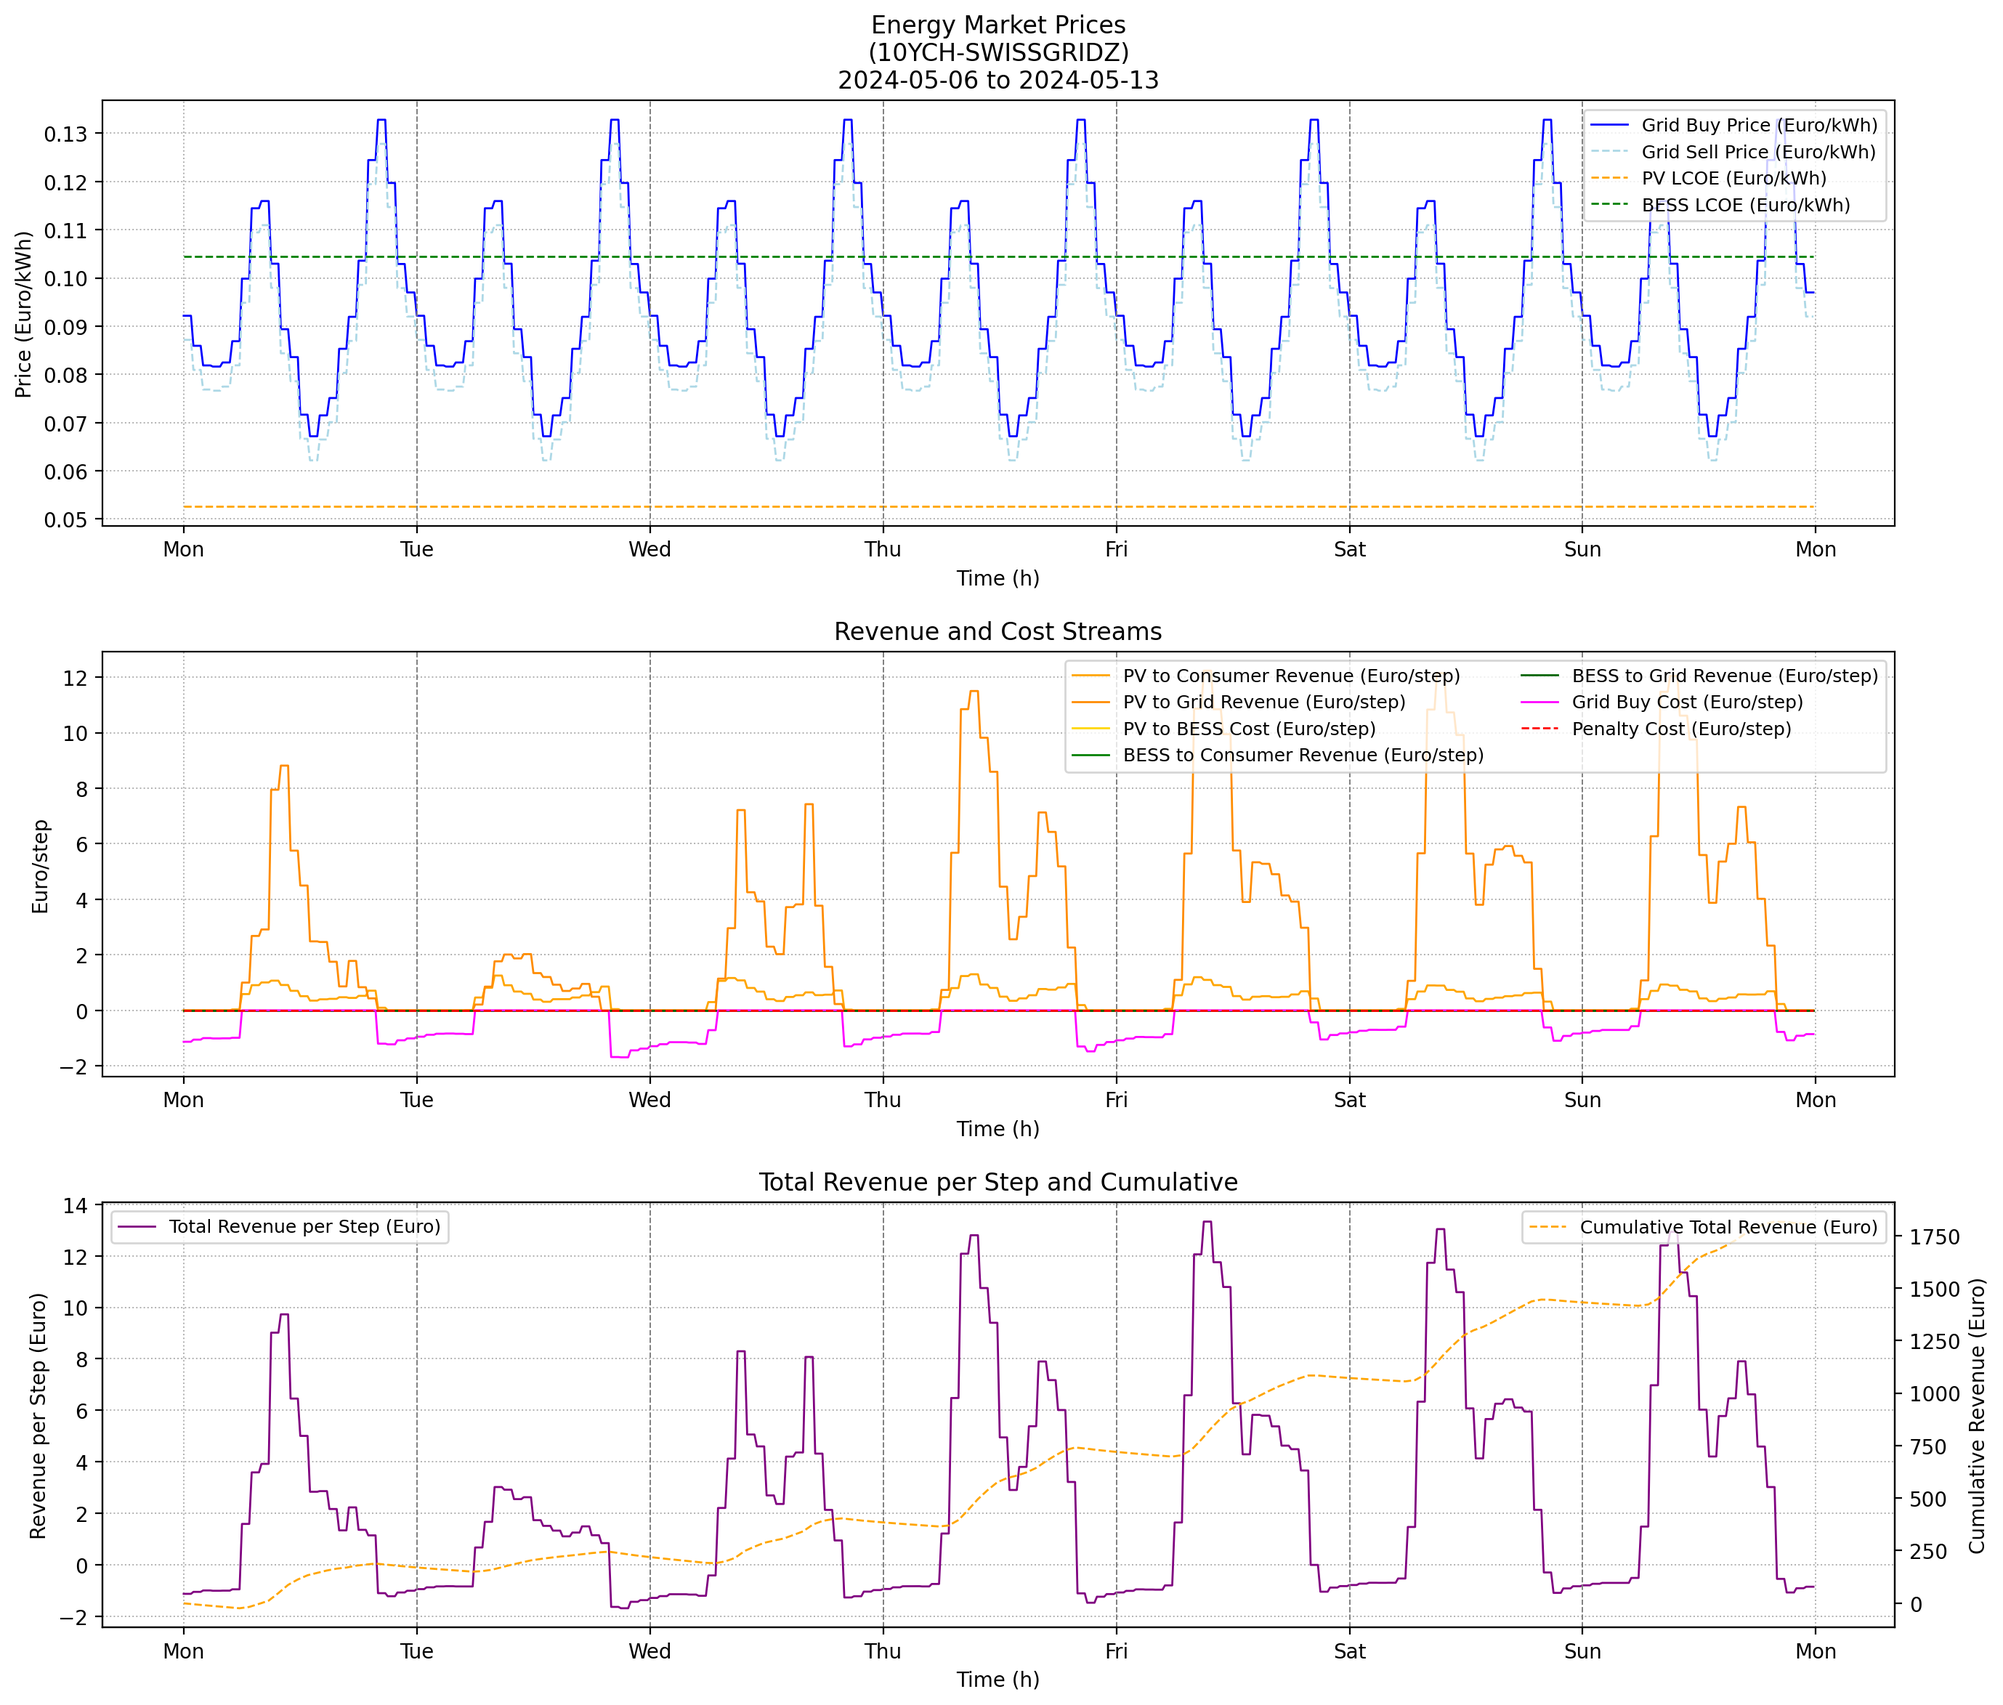
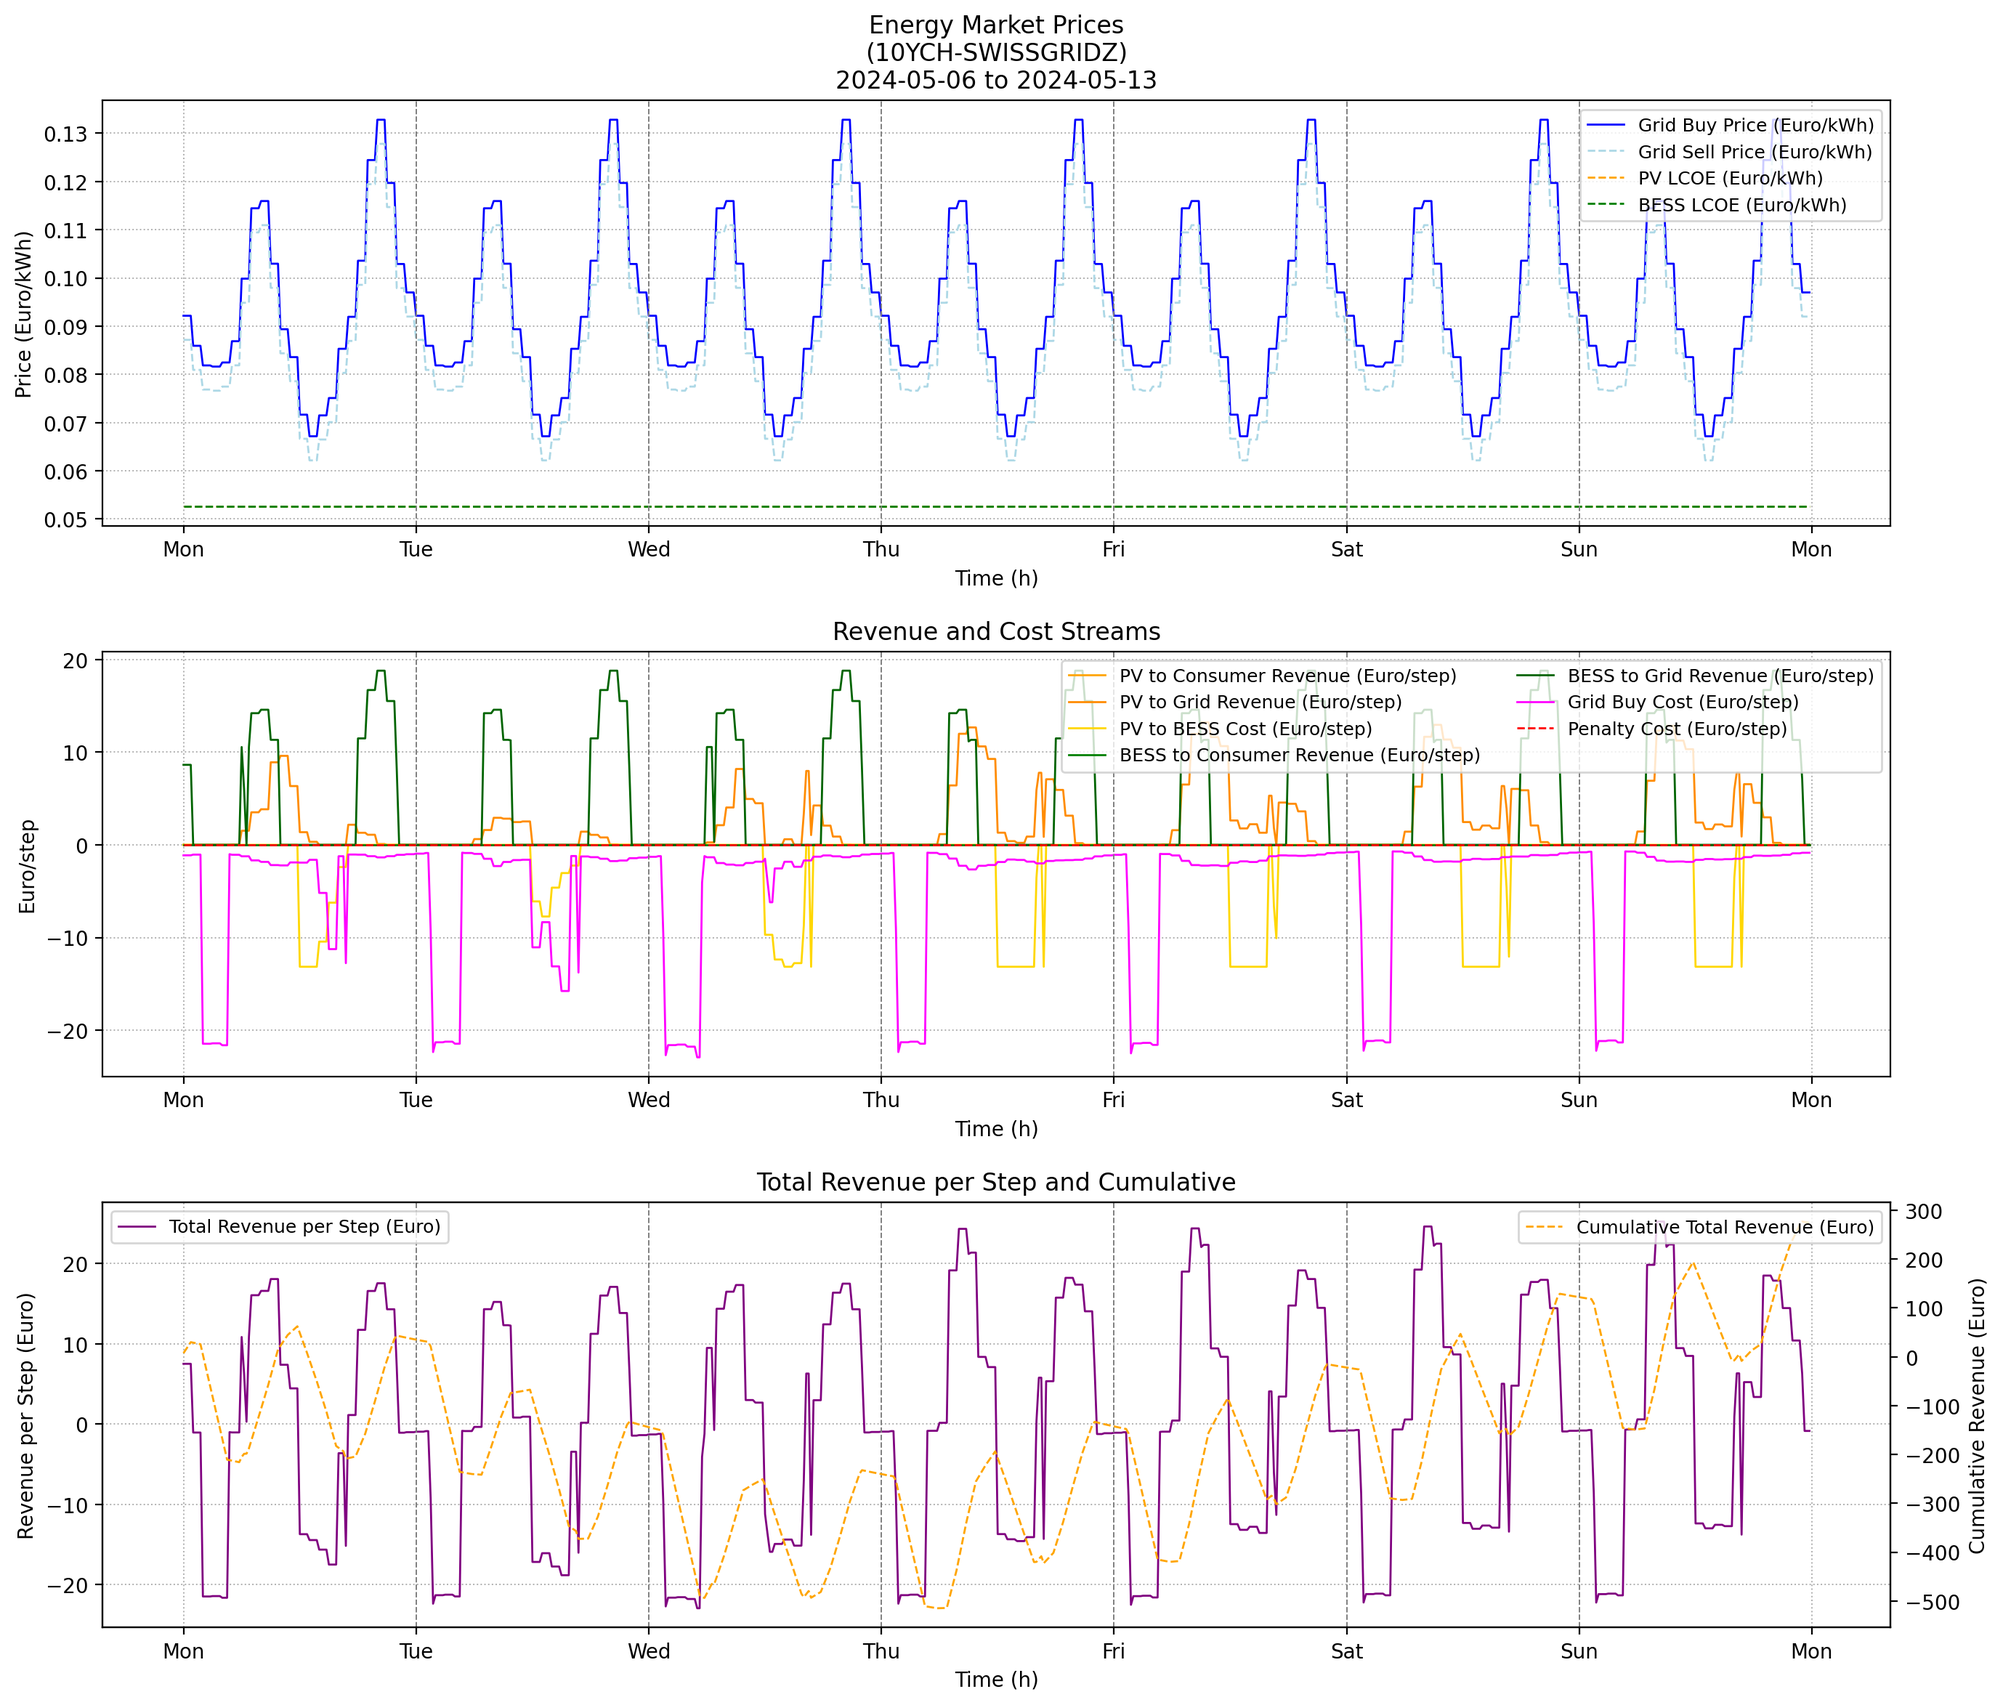
Update Model still to work on it

diff --git a/Computing Files/mpc.py b/Computing Files/mpc.py
@@ -33,6 +33,7 @@ class MPC:
         # Auxiliary variables for all flows (all non-negative)
         pv_to_consumer = cp.Variable(horizon, nonneg=True)
         bess_to_consumer = cp.Variable(horizon, nonneg=True)
+        bess_to_grid = cp.Variable(horizon, nonneg=True)
         pv_to_bess = cp.Variable(horizon, nonneg=True)
         pv_to_grid = cp.Variable(horizon, nonneg=True)
         grid_to_consumer = cp.Variable(horizon, nonneg=True)
@@ -41,8 +42,10 @@ class MPC:
         pv_after_bess = cp.Variable(horizon, nonneg=True)
         charge = cp.Variable(horizon, nonneg=True)
         discharge = cp.Variable(horizon, nonneg=True)
+        is_charging = cp.Variable(horizon, boolean=True)
         constraints = []
         constraints += [SOC[0] == soc_current]
+        M = self.bess_power_limit
         for k in range(horizon):
             pv = pv_forecast[k]
             demand = demand_forecast[k]
@@ -54,6 +57,9 @@ class MPC:
             constraints += [charge[k] >= 0]
             constraints += [discharge[k] >= P_BESS[k]]
             constraints += [discharge[k] >= 0]
+            # Big-M mutual exclusivity
+            constraints += [charge[k] <= M * is_charging[k]]
+            constraints += [discharge[k] <= M * (1 - is_charging[k])]
             # SOC update
             constraints += [SOC[k+1] == SOC[k] + self.eta_charge * charge[k] * self.delta_t - (discharge[k] / self.eta_discharge) * self.delta_t]
             constraints += [SOC[k+1] <= self.bess_capacity]
@@ -72,43 +78,72 @@ class MPC:
             constraints += [pv_after_bess[k] >= 0]
             # PV to grid: remaining PV after consumer and BESS
             constraints += [pv_to_grid[k] == pv_after_bess[k]]
-            # BESS to consumer: up to discharge and remaining demand
+            # BESS to consumer: up to discharge
             constraints += [bess_to_consumer[k] <= discharge[k]]
-            constraints += [bess_to_consumer[k] <= demand - pv_to_consumer[k]]
-            # Prevent simultaneous charge and discharge (convex relaxation)
-            constraints += [charge[k] + discharge[k] <= self.bess_power_limit]
-            # Grid to consumer: remaining demand
-            constraints += [grid_to_consumer[k] == demand - pv_to_consumer[k] - bess_to_consumer[k] + slack[k]]
-            # Grid to BESS: up to charge not covered by PV
+            # BESS to grid: up to discharge
+            constraints += [bess_to_grid[k] <= discharge[k]]
+            # Discharge split
+            constraints += [bess_to_consumer[k] + bess_to_grid[k] == discharge[k]]
+            # Energy balance constraints
+            # PV balance
+            constraints += [pv_to_consumer[k] + pv_to_bess[k] + pv_to_grid[k] == pv]
+            
+            # Consumer balance
+            constraints += [pv_to_consumer[k] + bess_to_consumer[k] + grid_to_consumer[k] == demand]
+            
+            # BESS balance
+            constraints += [charge[k] == pv_to_bess[k] + grid_to_bess[k]]
+            constraints += [discharge[k] == bess_to_consumer[k] + bess_to_grid[k]]
+            
+            # Grid balance (grid acts as slack)
+            constraints += [grid_to_consumer[k] == demand - pv_to_consumer[k] - bess_to_consumer[k]]
             constraints += [grid_to_bess[k] == charge[k] - pv_to_bess[k]]
             constraints += [grid_to_bess[k] >= 0]
-        # Objective: revenue + battery usage reward
-        alpha = 0.01  # Usage reward coefficient
-        # Set grid_to_consumer cost to -1 (i.e., grid is slack, not penalized heavily)
-        revenue = cp.sum(
-            pv_to_consumer * (buy_forecast[:horizon] - lcoe_pv) * self.delta_t +
-            pv_to_grid * (sell_forecast[:horizon] - lcoe_pv) * self.delta_t +
-            pv_to_bess * (-lcoe_pv) * self.delta_t +
-            bess_to_consumer * (buy_forecast[:horizon] - self.lcoe_bess) * self.delta_t +
-            grid_to_consumer * (-1) * self.delta_t +  # grid is slack, cost = 1
-            grid_to_bess * (-self.lcoe_bess) * self.delta_t
-        )
+            # Remove slack since we don't need it
+            constraints += [slack[k] == 0]
+        # Grid balance at each timestep
+        grid_import = []
+        grid_export = []
+        for k in range(horizon):
+            grid_imp_k = grid_to_consumer[k] + grid_to_bess[k]
+            grid_exp_k = pv_to_grid[k] + bess_to_grid[k]
+            grid_import.append(grid_imp_k)
+            grid_export.append(grid_exp_k)
+        
+        # Objective: true financial flows only (no virtual rewards)
+        alpha = 0.0001  # Usage reward coefficient (reduced to avoid excessive cycling)
+        
+        savings = 0
+        for k in range(horizon):
+            # Grid exports (revenue)
+            savings += cp.multiply(grid_export[k], sell_forecast[k]) * self.delta_t
+            # Grid imports (cost)
+            savings -= cp.multiply(grid_import[k], buy_forecast[k]) * self.delta_t
+            # Internal costs (LCOE)
+            savings -= cp.multiply(pv_to_consumer[k], lcoe_pv) * self.delta_t
+            savings -= cp.multiply(bess_to_consumer[k], self.lcoe_bess) * self.delta_t
+        
         bess_usage = cp.sum(charge + discharge) * self.delta_t
-        objective = cp.Maximize(revenue + alpha * bess_usage)
+        objective = cp.Maximize(savings + alpha * bess_usage)
         problem = cp.Problem(objective, constraints)
-        problem.solve(solver=cp.GUROBI, verbose=True, MIPGap=0.005)
+        problem.solve(solver=cp.GUROBI, verbose=True, MIPGap=0.05, TimeLimit=30)
         if problem.status == 'optimal':
-            return {
-                'P_BESS': P_BESS.value[0],
-                'SOC_next': SOC.value[1],
-                'pv_to_consumer': pv_to_consumer.value[0],
-                'bess_to_consumer': bess_to_consumer.value[0],
-                'pv_to_bess': pv_to_bess.value[0],
-                'pv_to_grid': pv_to_grid.value[0],
-                'grid_to_consumer': grid_to_consumer.value[0],
-                'grid_to_bess': grid_to_bess.value[0],
-                'slack': slack.value[0]
-            }
+            try:
+                return {
+                    'P_BESS': P_BESS.value[0],
+                    'SOC_next': SOC.value[1],
+                    'pv_to_consumer': pv_to_consumer.value[0],
+                    'bess_to_consumer': bess_to_consumer.value[0],
+                    'bess_to_grid': bess_to_grid.value[0],
+                    'pv_to_bess': pv_to_bess.value[0],
+                    'pv_to_grid': pv_to_grid.value[0],
+                    'grid_to_consumer': grid_to_consumer.value[0],
+                    'grid_to_bess': grid_to_bess.value[0],
+                    'slack': 0.0  # Since we constrain slack to be 0
+                }
+            except AttributeError as e:
+                logging.error(f"Error accessing solution values: {e}")
+                return None
         else:
             logging.info("MPC infeasible at current step.")
             return None

diff --git a/Computing Files/ev_power_profile.py b/Computing Files/ev_power_profile.py
@@ -1,0 +1,115 @@
+import numpy as np
+from datetime import datetime, timedelta
+import random
+import pandas as pd
+import os
+
+def load_constants():
+    # Cross-platform, dynamic path to constants file
+    BASE_DIR = os.path.dirname(os.path.dirname(os.path.abspath(__file__)))
+    CONSTANTS_PATH = os.path.join(BASE_DIR, 'Input Data Files', 'Constants_Plant.csv')
+    constants_df = pd.read_csv(CONSTANTS_PATH, comment='#')
+    return constants_df
+
+def generate_ev_charging_profile(start_time, end_time, num_sessions_per_day=0, session_energy=50, charger_max_power=400, load_scale=1.0):
+    """
+    Generates EV charging demand profile over the period.
+    
+    Parameters:
+    - start_time: datetime - Start of the period
+    - end_time: datetime - End of the period (exclusive last interval)
+    - num_sessions_per_day: int - Average number of charging sessions per day (0 for no charging)
+    - session_energy: float - Average energy per session in kWh (e.g., 50kWh)
+    - charger_max_power: float - Max power of the station in kW (400kW total for 2 outlets)
+    - load_scale: float - Scaling factor for energy load (1.0 = baseline, 0.0 = no load, >1 for increased)
+    
+    Returns:
+    dict with 'ev_demand': array of kWh per 15-min interval
+    """
+    if load_scale <= 0 or num_sessions_per_day <= 0:
+        # No charging scenario: return zeros for all intervals
+        num_intervals = int((end_time - start_time).total_seconds() / (15 * 60))
+        return {'ev_demand': np.zeros(num_intervals)}
+    
+    # Scale the number of sessions and energy (but cap power per session)
+    effective_sessions_per_day = int(num_sessions_per_day * load_scale)
+    effective_session_energy = session_energy * load_scale
+    
+    # Time setup: 15-min intervals
+    delta_t_min = 15
+    current_time = start_time
+    ev_demand = []
+    
+    # Period probabilities and avg loads (as % of max power, scaled indirectly via sessions/energy)
+    periods = [
+        (0, 6, 0.10, (20, 40)),   # 00-06h: low load
+        (6, 12, 0.40, (120, 200)), # 06-12h: higher
+        (12, 18, 0.30, (80, 160)), # 12-18h: medium
+        (18, 24, 0.25, (80, 120))  # 18-24h: medium-low
+    ]
+    
+    # Total probability for distributing sessions
+    total_prob = sum(p[2] for p in periods)
+    
+    # Simulate day by day
+    days = (end_time - start_time).days
+    for day in range(days):
+        daily_demand = np.zeros(96)  # 24h * 4 intervals/h
+        
+        # Distribute sessions across periods
+        sessions_per_period = [int(effective_sessions_per_day * p[2] / total_prob) for p in periods]
+        
+        for i, (start_h, end_h, _, (min_avg_kw, max_avg_kw)) in enumerate(periods):
+            num_sessions = sessions_per_period[i]
+            if num_sessions == 0:
+                continue
+            
+            # Period duration in minutes
+            period_min = (end_h - start_h) * 60
+            interval_start = start_h * 4
+            interval_end = end_h * 4
+            
+            for _ in range(num_sessions):
+                # Random session start within period (in minutes)
+                session_start_min = random.randint(0, period_min - 30)  # Assume min 30min session
+                session_duration_min = random.randint(30, 60)  # 30-60 min
+                # Power limited by charger max per outlet (assume 2 outlets, so per session max 200kW)
+                session_power = min(charger_max_power / 2, effective_session_energy / (session_duration_min / 60))  # Fit energy, cap at 200kW
+                
+                # Add to 15-min intervals (kWh = power * time_fraction)
+                start_interval = interval_start + (session_start_min // delta_t_min)
+                num_intervals = (session_duration_min + delta_t_min - 1) // delta_t_min  # Ceiling
+                
+                for j in range(num_intervals):
+                    interval_idx = start_interval + j
+                    if interval_idx >= interval_end:
+                        break
+                    # Fraction of interval covered by session
+                    interval_start_time_min = session_start_min + j * delta_t_min
+                    interval_end_time_min = min(session_start_min + session_duration_min, interval_start_time_min + delta_t_min)
+                    fraction = (interval_end_time_min - max(session_start_min, interval_start_time_min)) / delta_t_min
+                    daily_demand[interval_idx] += session_power * fraction * (delta_t_min / 60)  # kWh in interval
+        
+        ev_demand.extend(daily_demand)
+    
+    # Ensure exact length (672 for 7 days)
+    ev_demand = np.array(ev_demand[:672])
+    
+    return {'ev_demand': ev_demand}
+
+# For testing/standalone run (similar to pv_consumer_data)
+if __name__ == "__main__":
+    constants_df = load_constants()
+    period_start_str = constants_df[constants_df['Parameter'] == 'PERIOD_START']['Value'].iloc[0]
+    period_end_str = constants_df[constants_df['Parameter'] == 'PERIOD_END']['Value'].iloc[0]
+    start_dt = datetime.strptime(period_start_str, '%Y%m%d%H%M')
+    end_dt = datetime.strptime(period_end_str, '%Y%m%d%H%M')
+    
+    # Load tuning parameters
+    load_scale = float(constants_df[constants_df['Parameter'] == 'EV_LOAD_SCALE']['Value'].iloc[0])
+    num_sessions_per_day = int(constants_df[constants_df['Parameter'] == 'EV_NUM_SESSIONS_PER_DAY']['Value'].iloc[0])
+    session_energy = float(constants_df[constants_df['Parameter'] == 'EV_SESSION_ENERGY']['Value'].iloc[0])
+    charger_max_power = float(constants_df[constants_df['Parameter'] == 'EV_CHARGER_MAX_POWER']['Value'].iloc[0])
+    
+    profile = generate_ev_charging_profile(start_dt, end_dt, num_sessions_per_day, session_energy, charger_max_power, load_scale)
+    print(profile['ev_demand'])

diff --git a/Computing Files/main_Optimization.py b/Computing Files/main_Optimization.py
@@ -70,13 +70,13 @@ for t in range(data['n_steps']):
         slack_vals[t] = max(0, demand_t - (P_PV_consumer_vals[t] + P_grid_consumer_vals[t]))
         soc_actual[t + 1] = soc_actual[t]
     else:
-        P_PV_consumer_vals[t] = control['P_PV_cons']
-        P_PV_BESS_vals[t] = control['P_PV_BESS']
-        P_PV_grid_vals[t] = control['P_PV_grid']
-        P_BESS_consumer_vals[t] = control['P_BESS_cons']
-        P_BESS_grid_vals[t] = control['P_BESS_grid']
-        P_grid_consumer_vals[t] = control['P_grid_cons']
-        P_grid_BESS_vals[t] = control['P_grid_BESS']
+        P_PV_consumer_vals[t] = control['pv_to_consumer']
+        P_PV_BESS_vals[t] = control['pv_to_bess']
+        P_PV_grid_vals[t] = control['pv_to_grid']
+        P_BESS_consumer_vals[t] = control['bess_to_consumer']
+        P_BESS_grid_vals[t] = control['bess_to_grid']
+        P_grid_consumer_vals[t] = control['grid_to_consumer']
+        P_grid_BESS_vals[t] = control['grid_to_bess']
         slack_vals[t] = control['slack']
         soc_actual[t + 1] = control['SOC_next']
 
